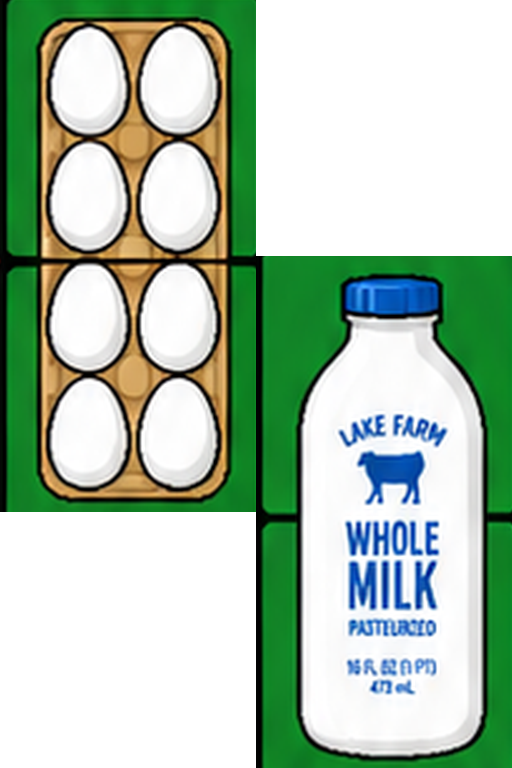
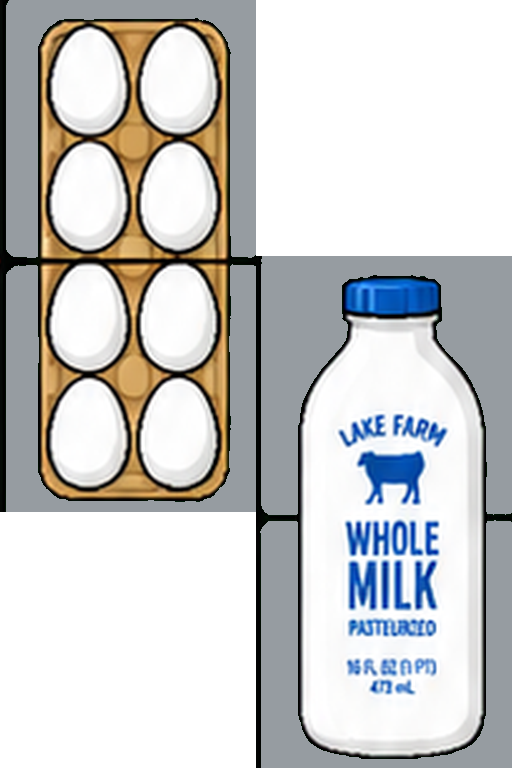
Muted-green screens, gradient green buttons, grey backing on eggs/milk piece

Changed region(s): [[0.0, 0.0, 1.0, 1.0]]

diff --git a/index.html b/index.html
@@ -104,7 +104,7 @@
     position: absolute; inset: 0; z-index: 30;
     display: flex; flex-direction: column; align-items: center; justify-content: center;
     gap: 16px; text-align: center; padding: 28px;
-    background: #06C167; color: #000;
+    background: #4E9D69; color: #000;
   }
   .overlay.hidden { display: none; }
   .overlay .riderImg { position: absolute; left: 0; bottom: 0; width: min(16vw, 90px); height: auto; pointer-events: none; z-index: 1; filter: drop-shadow(0 5px 12px rgba(0,0,0,.55)); }
@@ -112,13 +112,13 @@
   .overlay h1 .e { color: var(--green); }
   .overlay p { font-size: 14px; opacity: .8; line-height: 1.55; max-width: 320px; }
   .overlay .cta {
-    margin-top: 6px; background: #000; color: #fff; border: none;
-    border-radius: 12px; padding: 15px 40px; font-size: 18px; font-weight: 900; cursor: pointer;
-    box-shadow: 0 8px 22px rgba(0,0,0,.32);
+    margin-top: 6px; background: linear-gradient(165deg, #66BE82 0%, #3F8C58 100%); color: #000; border: 1px solid rgba(255,255,255,.28);
+    border-radius: 16px; padding: 15px 40px; font-size: 18px; font-weight: 900; cursor: pointer;
+    box-shadow: 0 10px 22px rgba(0,0,0,.26);
   }
   .overlay .cta:disabled { opacity: .5; cursor: default; box-shadow: none; }
   .overlay .cta:active:not(:disabled) { transform: scale(.97); }
-  .overlay .cta.ghost { background: transparent; color: #000; border: 1.5px solid rgba(0,0,0,.45); box-shadow: none; }
+  .overlay .cta.ghost { background: transparent; color: #000; border: 1.5px solid rgba(255,255,255,.5); box-shadow: none; }
   .keys { font-size: 12px; opacity: .55; line-height: 1.8; }
   .keys b { color: #fff; opacity: .9; }
   #stars { font-size: 46px; letter-spacing: 6px; }
@@ -304,7 +304,7 @@
     sub: "assets/sub.png?v=10",
     ubereats: "assets/ubereats.png?v=14",
     banana: "assets/banana.png?v=9",
-    eggs: "assets/eggs.png?v=9",
+    eggs: "assets/eggs.png?v=10",
     groceries: "assets/groceries.png?v=9",
     nana: "assets/nana.png",
     produce: "assets/produce.png?v=9",
